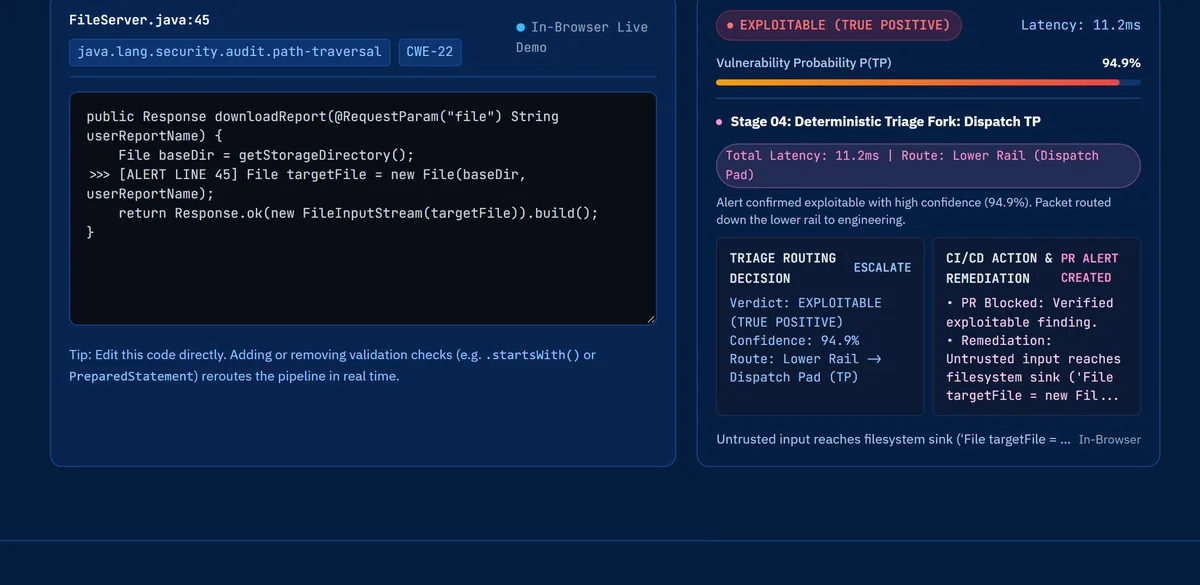
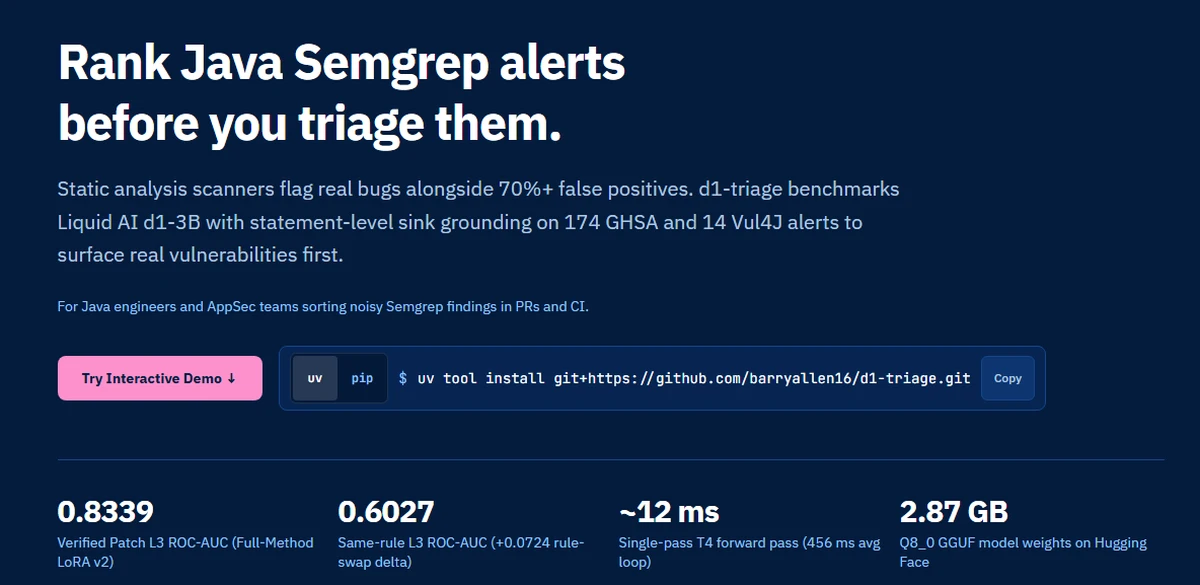
update d1-triage copy and project visuals

diff --git a/index.html b/index.html
@@ -329,7 +329,7 @@
             <p class="project-summary mt-2 text-sm text-zinc-400 leading-relaxed max-w-prose">
               Rust BPE tokenizer with character seeding, promotion merges, and bitset-guarded CSR merge tables. Uses 50.2% fewer tokens than OpenAI o200k and hits 0.9193 bits/byte (+36.9% vs mBERT) with 100% ByteFallback decode fidelity.
             </p>
-            <img src="./images/partha-demo.webp" loading="lazy" decoding="async" width="1200" height="692" class="project-media" alt="Partha Tamil 120K tokenizer comparing 11 tokens vs 17 tokens in OpenAI o200k_base on a Thirukkural verse" />
+            <img src="./images/partha-demo.webp" loading="lazy" decoding="async" width="1200" height="629" class="project-media" alt="Partha Tamil 120K tokenizer comparing 41 tokens vs 92 tokens in OpenAI o200k_base (-55% tokens) on Tamil Wikipedia text" />
             <div class="project-actions mt-2.5 flex flex-wrap items-center justify-between gap-2">
               <div class="flex flex-wrap items-center gap-4 text-xs text-zinc-400">
                 <a href="https://partha.isroot.in/" target="_blank" rel="noopener noreferrer" class="group inline-flex items-center gap-1 text-zinc-300 hover:text-white min-h-[44px]">
@@ -424,14 +424,14 @@
                 </div>
               </div>
               <div class="text-left sm:text-right font-mono text-xs tabular-nums">
-                <span class="text-zinc-200">12-14ms T4</span>
-                <span class="text-zinc-400"> &middot; 0.8372 AUC</span>
+                <span class="text-zinc-200">~12ms T4 fwd</span>
+                <span class="text-zinc-400"> &middot; 0.8339 L3 AUC</span>
               </div>
             </div>
             <p class="project-summary mt-2 text-sm text-zinc-400 leading-relaxed max-w-prose">
-              Filters false positives from Semgrep Java alerts (over 70% of raw alerts are false positives) in 12-14 ms on T4 (6.2 GB VRAM) or under a second on CPU, using contrastive LoRA on Liquid AI d1-3B over 416 real diffs with AST statement anchoring.
+              Ranks Semgrep Java alerts by exploitability (~12 ms T4 forward pass, 6.2 GB VRAM, or Q8_0 GGUF on CPU) using full-method logit-readout LoRA on Liquid AI d1-3B over 1,643 methods from 465 held-out commits with AST sink grounding.
             </p>
-            <img src="./images/d1-triage-demo.webp" loading="lazy" decoding="async" width="1200" height="585" class="project-media" alt="D1-Triage interactive Java path-traversal alert marked exploitable at 94.9% probability in 11.2ms" />
+            <img src="./images/d1-triage-demo.webp" loading="lazy" decoding="async" width="1200" height="585" class="project-media" alt="D1-Triage landing view showing 0.8339 L3 ROC-AUC, 0.6027 same-rule AUC, ~12 ms T4 forward pass, and 2.87 GB Q8_0 GGUF metrics" />
             <div class="project-actions mt-2.5 flex flex-wrap items-center justify-between gap-2">
               <div class="flex flex-wrap items-center gap-4 text-xs text-zinc-400">
                 <a href="https://barryallen16.github.io/d1-triage/" target="_blank" rel="noopener noreferrer" class="group inline-flex items-center gap-1 text-zinc-300 hover:text-white min-h-[44px]">

diff --git a/logic.js b/logic.js
@@ -35,14 +35,14 @@ const PROJECTS = {
     title: "D1-Triage",
     status: "Live",
     notes: [
-      "Semgrep emits unranked Java alerts with over 70% false positives, and raw unnumbered AST snippets misalign what the scanner flagged from what the model sees.",
-      "Adding alert line markers via AST statement anchoring raised within-rule AUC from 0.4297 to 0.5986, and contrastive LoRA over 416 real pre/post-fix diffs pushed within-rule AUC to 0.6594. It ships as a CLI running on T4 in 12-14 ms (6.2 GB VRAM) or under a second on CPU via Q8_0 GGUF.",
+      "Semgrep emits unranked Java alerts with over 70% false positives, and zero-shot d1-3B's 0.8372 L3 AUC relied mostly on rule-name priors (0.4297 L0 within-rule AUC) because unnumbered AST snippets hid the flagged line.",
+      "Tagging matched AST sink lines raised L0 within-rule AUC to 0.5986 (+0.0749 swap delta). Full-method LoRA with a 2-class yes/no logit-readout loss (KL=0.2, 1,643 methods from 465 held-out commits) reached 0.8339 GHSA L3 AUC (vs 0.7167 Kev-4B), 0.6027 L3 within-rule AUC, and 0.3023 P@90R (~12 ms T4 forward pass; 456.4 ms mean loop) with Q8_0 GGUF CPU scoring.",
     ],
     receipts: [
-      "0.8372 ground-truth AUC and 0.8000 on Vul4J real CVEs across 174 alerts (68 GHSA advisories, 126 Vul4J repos).",
-      "Verified across a 19-test suite.",
+      "Evaluated on 174 GHSA alerts (68 advisories, L0-L3 gates) and 14 Vul4J alerts (126 repos); ranks review queues rather than suppressing alerts.",
+      "52 passing pytest unit tests, 19 end-to-end audit checks in CI, plus local HTTP API server and Gradio Space.",
     ],
-    stack: "Liquid AI d1-3B · PyTorch LoRA · Semgrep · Q8_0 GGUF",
+    stack: "Liquid AI d1-3B · PyTorch LoRA · Semgrep · Q8_0 GGUF · Gradio",
     extraLinks: [
       { label: "Dataset", href: "https://huggingface.co/datasets/barryallen16/d1-triage" },
     ],

diff --git a/resume/index.html b/resume/index.html
@@ -409,7 +409,7 @@
           </li>
           <li>
             <strong>D1-Triage</strong>
-            <span>Liquid AI d1-3B hybrid SSM ranking Semgrep Java alerts in 12-14ms on T4 (0.8372 ground-truth AUC; 0.6594 within-rule AUC).</span>
+            <span>Liquid AI d1-3B hybrid SSM ranking Semgrep Java alerts (~12ms T4 forward pass) using full-method logit-readout LoRA (0.8339 GHSA L3 AUC; 0.6027 within-rule AUC; 0.3023 P@90R).</span>
           </li>
           <li>
             <strong>mono (v1.2.0)</strong>
